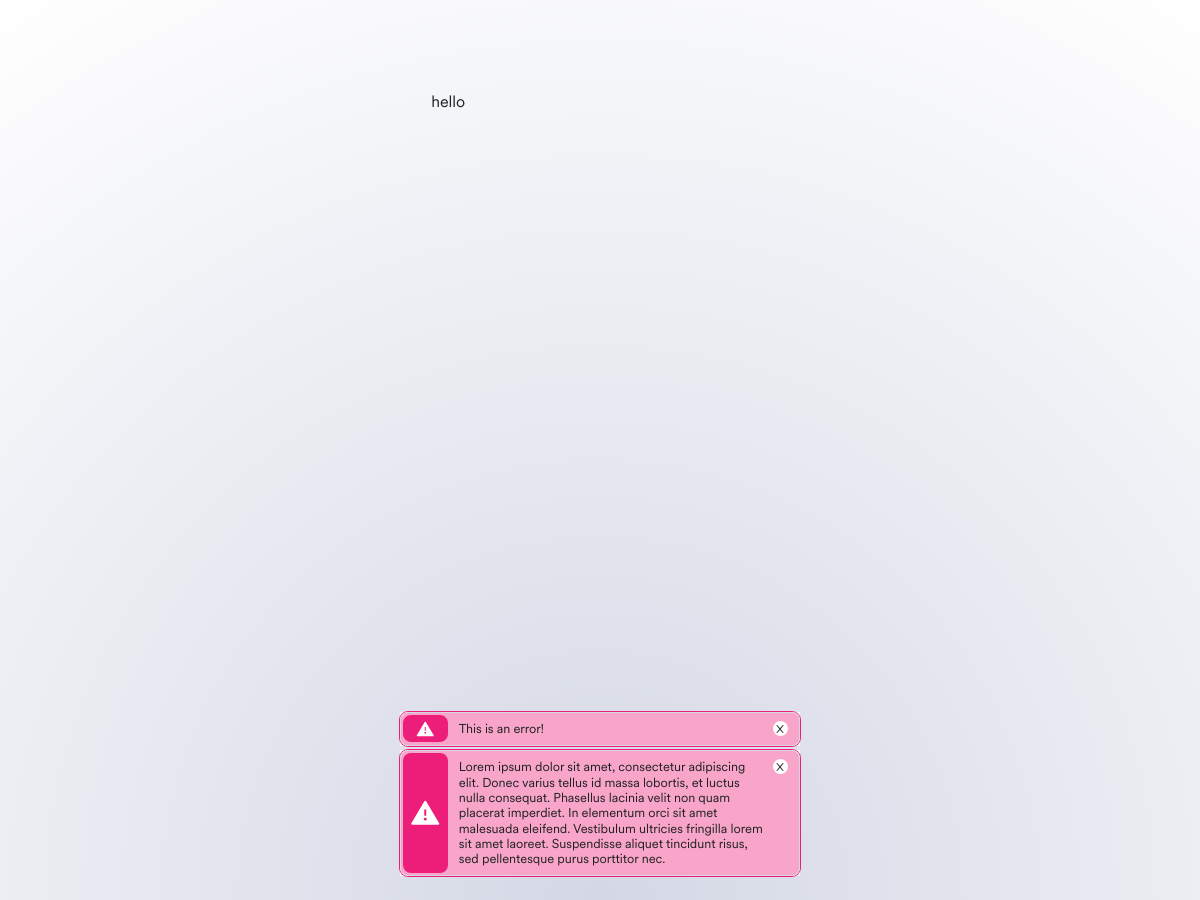
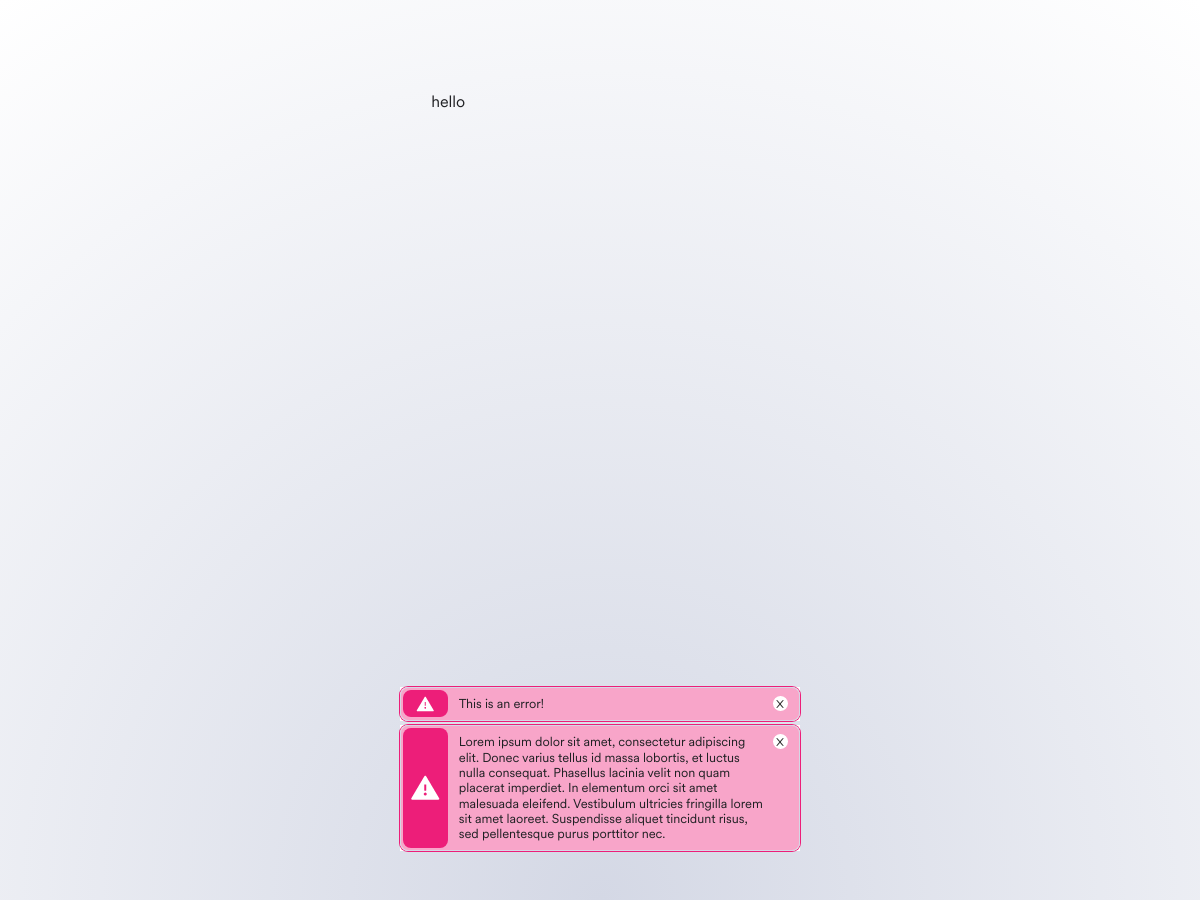
Fix toaster position (#1612)
* put the toasts higher up so they are on top of the footer if there is one

* 🤖 Selenium screenshots auto-update

---------

Changed region(s): [[0.3083, 0.7467, 0.6783, 0.9956]]

diff --git a/src/frontend/src/styles/main.css b/src/frontend/src/styles/main.css
@@ -286,6 +286,8 @@
 
   /* generic Lines uses on cards and other separation elements */
   --rs-line: var(--vs-line);
+
+  --rs-footer-height: 4rem;
 }
 
 /* II) Optional Theme Settings: DarkMode, LightMode, Product Specific stuff */
@@ -1049,6 +1051,7 @@ a:hover,
   left: 0;
   right: 0;
   z-index: var(--z-toasts);
+  margin: 0 auto calc(var(--rs-footer-height) + 0.5rem);
 }
 
 .c-toast + .c-toast {
@@ -2295,7 +2298,7 @@ a.c-action-list__item {
 
     max-width: none;
     /* centers the container and adds a bit of space to make sure the footer does not stick to it */
-    margin: 0 0 4rem;
+    margin: 0 0 var(--rs-footer-height);
   }
 }
 
